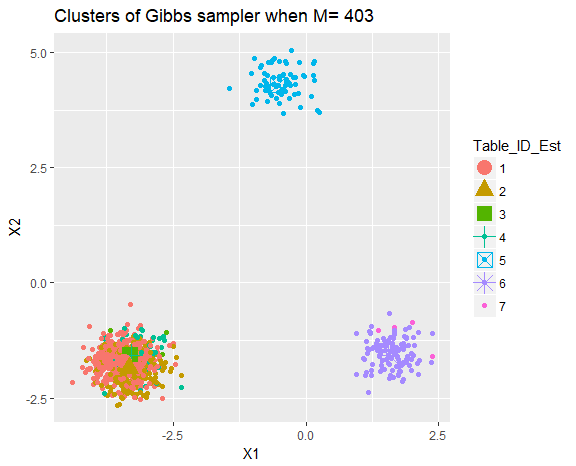
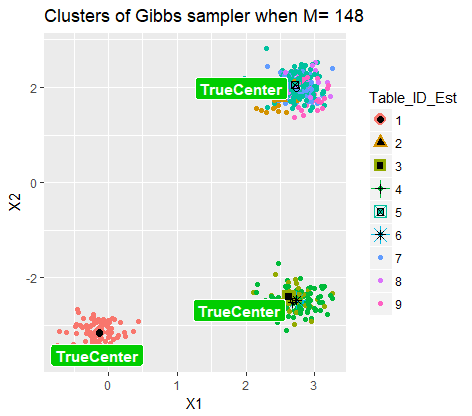
Update slides with new 2D gibbs sampler.

diff --git a/index.html b/index.html
@@ -461,7 +461,7 @@ G_0 & \sim \mathcal{N}\bigg(\bigg(\begin{array}{c}0\\ 0\\ \end{array}\bigg), \bi
 
 <ul>
 <li><p>Likelihood function: \(F\bigg(\bigg(\begin{array}{c}y_{i,1}\\ y_{i,2}\\ \end{array}\bigg)|\bigg(\begin{array}{c} \theta_{i,1}\\ \theta_{i,2}\\ \end{array}\bigg)\bigg) = \frac{1}{\sqrt{2\pi}}e^{-\frac{1}{2}(\mathbf{y_{i\cdot}} - \theta_{i\cdot})^2}\)</p></li>
-<li><p>Posterior distribution \(H_i \sim \mathcal{N}\bigg(\frac{\sigma^2_0}{\sigma^2_0+\sigma^2}\bigg(\begin{array}{c}y_{i,1}\\ y_{i,2}\\ \end{array}\bigg), \frac{\sigma^2_0\sigma^2}{\sigma^2_0+\sigma^2}\bigg(\begin{array}{cc}1 & \\ & 1\\ \end{array}\bigg)\bigg)\) by formula in Wikipedia</p></li>
+<li><p>Posterior distribution \(H_i \sim \mathcal{N}\bigg(\frac{\sigma^2_0}{\sigma^2_0+\sigma^2}\bigg(\begin{array}{c}y_{i,1}\\ y_{i,2}\\ \end{array}\bigg), \frac{\sigma^2_0\sigma^2}{\sigma^2_0+\sigma^2}\bigg(\begin{array}{cc}1 & \\ & 1\\ \end{array}\bigg)\bigg)\) </p></li>
 </ul>
 
   </article>
@@ -473,10 +473,10 @@ G_0 & \sim \mathcal{N}\bigg(\bigg(\begin{array}{c}0\\ 0\\ \end{array}\bigg), \bi
     <h2>Gibbs Sampler results for 2D DPMM</h2>
   </hgroup>
   <article data-timings="">
-    <p>Underlying clusters and estimated clusters from Gibbs Sample 
-<br> <br></p>
+    <p>Underlying clusters and estimated clusters from Gibbs Sample <a href="https://github.com/XiaoruiZhu/DPMM/blob/master/codes/DPMM_2D.R">(Algorithm for this 2D DPMM)</a></p>
 
-<p><center><img width=450px height=450px src="figure/2D_Clusters_T.png" align="left"></img>
+<p><center><img width=450px height=400px src="figure/2D_Clusters_T.png" align="left"></img>
+<img width=500px height=500px src="figure/2D_Clusters_Est1.png" align="right"></img>
 </center></p>
 
   </article>
@@ -489,10 +489,10 @@ G_0 & \sim \mathcal{N}\bigg(\bigg(\begin{array}{c}0\\ 0\\ \end{array}\bigg), \bi
   </hgroup>
   <article data-timings="">
     <p>Underlying clusters and estimated clusters from Gibbs Sample 
-<br> <br></p>
+<br></p>
 
-<p><center><img width=450px height=450px src="figure/2D_Clusters_T.png" align="left"></img>
-<img width=450px height=450px src="figure/2D_Clusters_Est1.png" align="right"></img>
+<p><center><img width=450px height=400px src="figure/2D_Clusters_T.png" align="left"></img>
+<img width=500px height=500px src="figure/2D_Clusters_Est2.png" align="right"></img>
 </center></p>
 
   </article>
@@ -505,10 +505,10 @@ G_0 & \sim \mathcal{N}\bigg(\bigg(\begin{array}{c}0\\ 0\\ \end{array}\bigg), \bi
   </hgroup>
   <article data-timings="">
     <p>Underlying clusters and estimated clusters from Gibbs Sample 
-<br> <br></p>
+<br> </p>
 
-<p><center><img width=450px height=450px src="figure/2D_Clusters_T.png" align="left"></img>
-<img width=450px height=450px src="figure/2D_Clusters_Est2.png" align="right"></img>
+<p><center><img width=450px height=400px src="figure/2D_Clusters_T.png" align="left"></img>
+<img width=500px height=500px src="figure/2D_Clusters_Est3.png" align="right"></img>
 </center></p>
 
   </article>
@@ -521,10 +521,10 @@ G_0 & \sim \mathcal{N}\bigg(\bigg(\begin{array}{c}0\\ 0\\ \end{array}\bigg), \bi
   </hgroup>
   <article data-timings="">
     <p>Underlying clusters and estimated clusters from Gibbs Sample 
-<br> <br></p>
+<br> </p>
 
-<p><center><img width=450px height=450px src="figure/2D_Clusters_T.png" align="left"></img>
-<img width=450px height=450px src="figure/2D_Clusters_Est3.png" align="right"></img>
+<p><center><img width=450px height=400px src="figure/2D_Clusters_T.png" align="left"></img>
+<img width=500px height=500px src="figure/2D_Clusters_Est4.png" align="right"></img>
 </center></p>
 
   </article>

diff --git a/index.md b/index.md
@@ -292,46 +292,49 @@ G_0 & \sim \mathcal{N}\bigg(\bigg(\begin{array}{c}0\\ 0\\ \end{array}\bigg), \bi
 
 - Likelihood function: $F\bigg(\bigg(\begin{array}{c}y_{i,1}\\ y_{i,2}\\ \end{array}\bigg)|\bigg(\begin{array}{c} \theta_{i,1}\\ \theta_{i,2}\\ \end{array}\bigg)\bigg) = \frac{1}{\sqrt{2\pi}}e^{-\frac{1}{2}(\mathbf{y_{i\cdot}} - \theta_{i\cdot})^2}$
 
-- Posterior distribution $H_i \sim \mathcal{N}\bigg(\frac{\sigma^2_0}{\sigma^2_0+\sigma^2}\bigg(\begin{array}{c}y_{i,1}\\ y_{i,2}\\ \end{array}\bigg), \frac{\sigma^2_0\sigma^2}{\sigma^2_0+\sigma^2}\bigg(\begin{array}{cc}1 & \\ & 1\\ \end{array}\bigg)\bigg)$ by formula in Wikipedia
+- Posterior distribution $H_i \sim \mathcal{N}\bigg(\frac{\sigma^2_0}{\sigma^2_0+\sigma^2}\bigg(\begin{array}{c}y_{i,1}\\ y_{i,2}\\ \end{array}\bigg), \frac{\sigma^2_0\sigma^2}{\sigma^2_0+\sigma^2}\bigg(\begin{array}{cc}1 & \\ & 1\\ \end{array}\bigg)\bigg)$ 
 
 
 --- 
 ## Gibbs Sampler results for 2D DPMM
 
-Underlying clusters and estimated clusters from Gibbs Sample 
-<br> <br>
+Underlying clusters and estimated clusters from Gibbs Sample [(Algorithm for this 2D DPMM)](https://github.com/XiaoruiZhu/DPMM/blob/master/codes/DPMM_2D.R)
 
-<center><img width=450px height=450px src="figure/2D_Clusters_T.png" align="left"></img>
+<center><img width=450px height=400px src="figure/2D_Clusters_T.png" align="left"></img>
+<img width=500px height=500px src="figure/2D_Clusters_Est1.png" align="right"></img>
 </center>
 
+
 --- 
 ## Gibbs Sampler results for 2D DPMM
 
 Underlying clusters and estimated clusters from Gibbs Sample 
-<br> <br>
+<br>
 
-<center><img width=450px height=450px src="figure/2D_Clusters_T.png" align="left"></img>
-<img width=450px height=450px src="figure/2D_Clusters_Est1.png" align="right"></img>
+<center><img width=450px height=400px src="figure/2D_Clusters_T.png" align="left"></img>
+<img width=500px height=500px src="figure/2D_Clusters_Est2.png" align="right"></img>
 </center>
 
+
 --- 
 ## Gibbs Sampler results for 2D DPMM
 
 Underlying clusters and estimated clusters from Gibbs Sample 
-<br> <br>
+<br> 
 
-<center><img width=450px height=450px src="figure/2D_Clusters_T.png" align="left"></img>
-<img width=450px height=450px src="figure/2D_Clusters_Est2.png" align="right"></img>
+<center><img width=450px height=400px src="figure/2D_Clusters_T.png" align="left"></img>
+<img width=500px height=500px src="figure/2D_Clusters_Est3.png" align="right"></img>
 </center>
 
+
 --- 
 ## Gibbs Sampler results for 2D DPMM
 
 Underlying clusters and estimated clusters from Gibbs Sample 
-<br> <br>
+<br> 
 
-<center><img width=450px height=450px src="figure/2D_Clusters_T.png" align="left"></img>
-<img width=450px height=450px src="figure/2D_Clusters_Est3.png" align="right"></img>
+<center><img width=450px height=400px src="figure/2D_Clusters_T.png" align="left"></img>
+<img width=500px height=500px src="figure/2D_Clusters_Est4.png" align="right"></img>
 </center>
 
 
